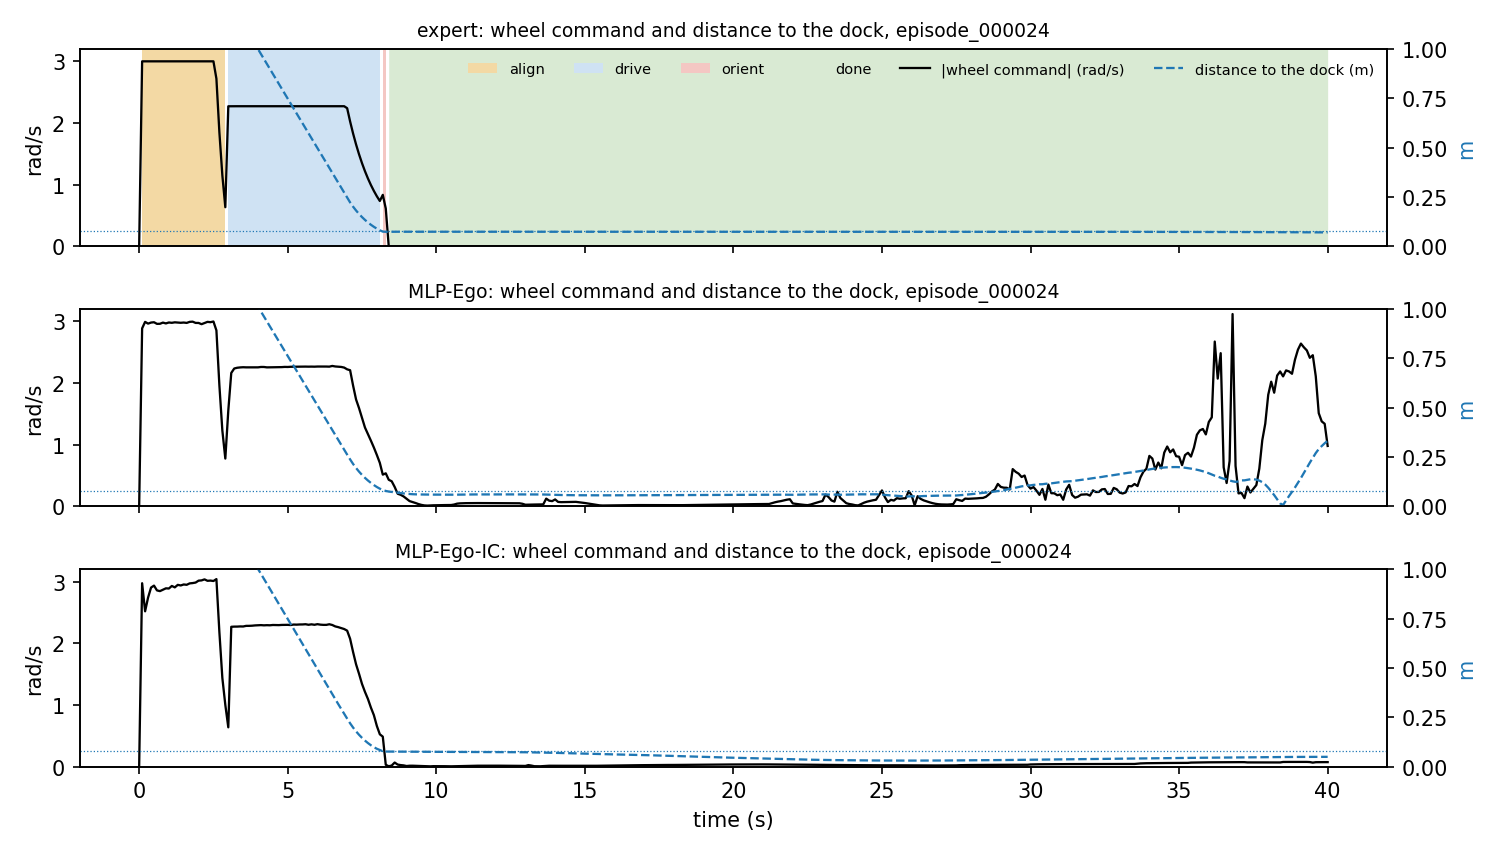
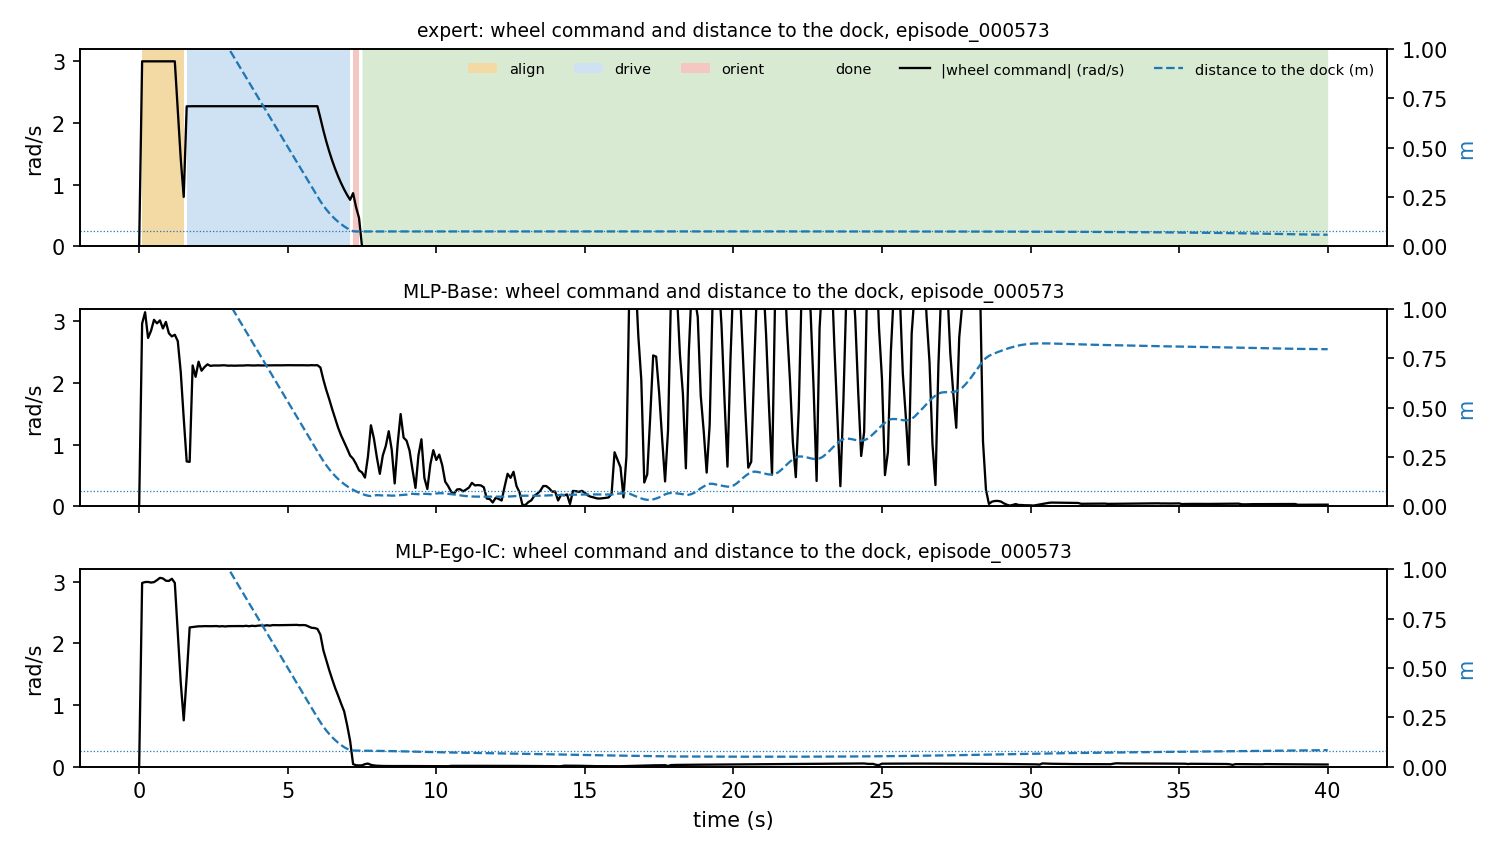
Base drift: three-stage figure with MLP-Base (episode 573); --episode option of problem_figures

diff --git a/scripts/figures/problem_figures.py b/scripts/figures/problem_figures.py
@@ -12,7 +12,7 @@ along the bearing from the start to the target, so the required final heading is
                         value at 40 s
 
 Usage (any Python with numpy + matplotlib; the evaluation directories hold traces/ and jobs.json):
-  python3 scripts/figures/problem_figures.py OUT_DIR LABEL=EVAL_DIR:POLICY_PREFIX [LABEL=...]
+  python3 scripts/figures/problem_figures.py OUT_DIR LABEL=EVAL_DIR:POLICY_PREFIX [LABEL=...] [--episode=episode_000573]
 e.g. "MLP-Ego=runs/evaluation/v2_mlp28_control_on_clean_validation_20261102:mlp28_control"; the expert is read from the
 first directory. Seeds: every policy label POLICY_PREFIX_seedN found in the directory is pooled (scatter: seed 0 only).
 """
@@ -113,8 +113,8 @@ def pick_episode(models, expert):
     return sorted(expert)[0]
 
 
-def figure_final_stop(models, expert, out):
-    eid = pick_episode(models, expert)
+def figure_final_stop(models, expert, out, episode=None):
+    eid = episode or pick_episode(models, expert)
     rows = [("expert", expert[eid])] + [(label, runs[0][eid]) for label, runs in models if eid in runs[0]]
     fig, axes = plt.subplots(len(rows), 1, figsize=(10, 1.9 * len(rows)), sharex=True)
     for ax, (label, tr) in zip(axes, rows):
@@ -201,6 +201,8 @@ def main(argv):
         raise SystemExit(__doc__)
     out = Path(argv[0]); out.mkdir(parents=True, exist_ok=True)
     models, expert = [], None
+    forced = [a.split("=", 1)[1] for a in argv[1:] if a.startswith("--episode=")]
+    argv = [a for a in argv if not a.startswith("--episode=")]
     for item in argv[1:]:
         label, spec = item.split("=", 1)
         eval_dir, prefix = spec.rsplit(":", 1)
@@ -208,7 +210,7 @@ def main(argv):
             expert = load(eval_dir, "expert")
         models.append((label, [load(eval_dir, p) for p in seeds(eval_dir, prefix)]))
     figure_parking(models, expert, out / "1_parking.png")
-    eid = figure_final_stop(models, expert, out / "2_final_stop.png")
+    eid = figure_final_stop(models, expert, out / "2_final_stop.png", forced[0] if forced else None)
     figure_after_arrival(models, expert, out / "3_after_arrival.png")
     figure_arm_error(models, expert, out / "4_arm_error.png")
     print(f"figures in {out} (final-stop episode {eid})")

diff --git a/docs/06_base_drift.md b/docs/06_base_drift.md
@@ -13,14 +13,16 @@ eventually drives off again.
 
 ![final stop, three stages](figures/problems/final_stop_three.png)
 
-*The three stages, one episode (episode_000024, seed 0): wheel command (black) and distance to the expert's dock (blue
-dashed; dotted: the 8 cm stop box). Expert: align, drive, orient, then done with the wheels at exactly zero from 8.5 s.
-MLP-Ego: parks at the same time but keeps a small non-zero command that grows; from ~28 s the base leaves the dock and
-the navigation restarts. MLP-Ego-IC: parks and stays (residual ~0.04 rad/s, base within a few centimetres of the dock),
-because its arm has started and finishes the task. (MLP-Base, not shown, never stops: 2.4 rad/s and 8 m driven after
-10 s in the same episode.)*
+*The three stages, one episode (episode_000573, seed 0; `problem_figures.py … --episode=episode_000573`): wheel command
+(black) and distance to the expert's dock (blue dashed; dotted: the 8 cm stop box). **Expert**: align, drive, orient,
+then done with the wheels at exactly zero from 7.5 s. **MLP-Base**: reaches the dock at ~7 s but never really stops (the
+command oscillates between 0.2 and 1.5 rad/s), restarts from ~16 s with 0–3 rad/s oscillations and drives 0.8 m away.
+**MLP-Ego-IC**: parks and stays (residual ~0.04 rad/s), because its arm has started and finishes the task.*
 
-The same episode with every model:
+Between the two, **MLP-Ego** (egocentric inputs, no ignition copies) parks properly and holds much longer: on seed 0 it
+parks in 183 of 205 episodes and, when it leaves, it does so after ~27 s parked (median); MLP-Base parks in 99 and leaves
+in 55 of them, sometimes after 6–10 s. The egocentric inputs make the stop steady; without the arm the creep still
+ends it. Episode 000024 with every model:
 
 ![final stop](figures/problems/2_final_stop.png)
 
